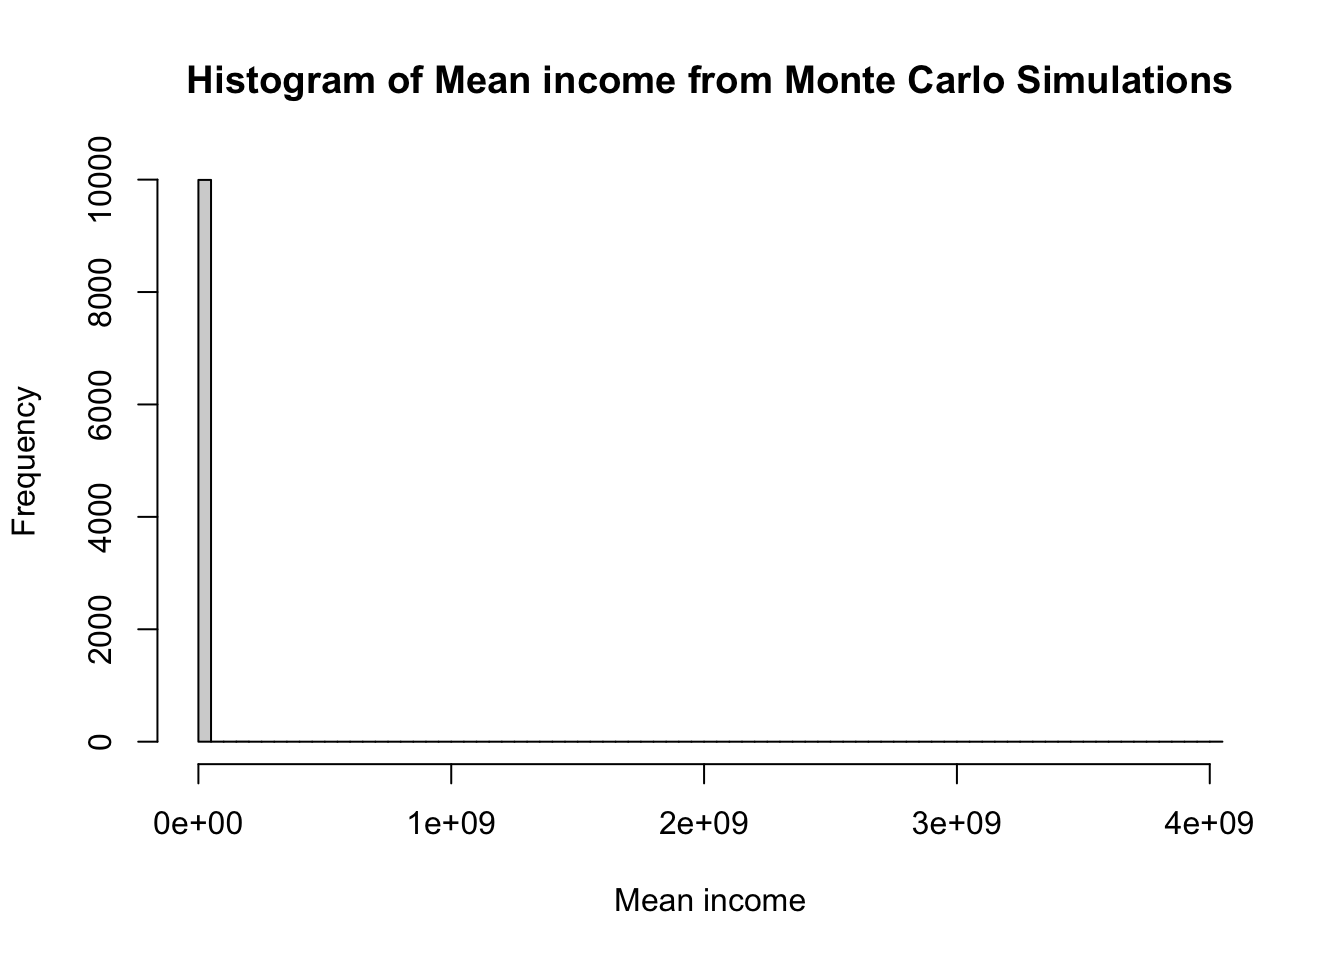
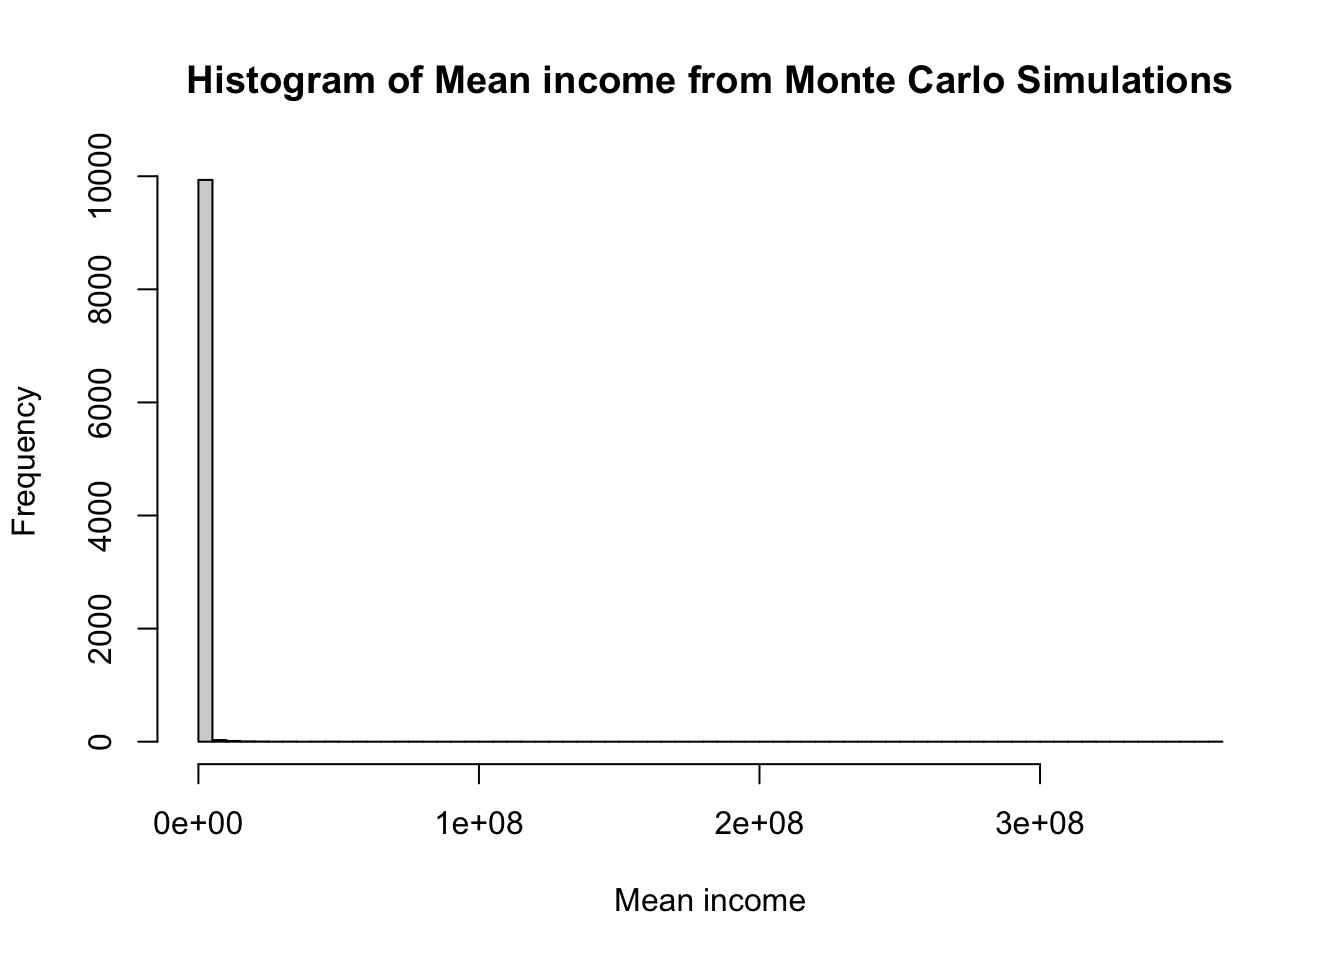
corrected drawdown

diff --git a/docs/Catallactics/Personal/levi.html b/docs/Catallactics/Personal/levi.html
@@ -1095,7 +1095,7 @@ cookieconsent.run({
 <li><p><strong>Median</strong>: 50% of the returns fall below this value, indicating the central tendency of the distribution.</p></li>
 <li><p><strong>Mean</strong>: The average return is approximately 11.146, representing the central tendency of the distribution.</p></li>
 <li><p><strong>3rd Quartile</strong>: 75% of the returns fall below this value.</p></li>
-<li><p><strong>Maximum</strong>: The highest return observed after truncation is 252.402, indicating that no return exceeds this threshold due to truncation.</p></li>
+<li><p><strong>Maximum</strong>: The highest return observed is 252.402, indicating that no return exceeds this threshold.</p></li>
 </ul>
 <p>The probability calculations reveal the likelihood of observing returns within specific ranges:</p>
 <ul>
@@ -1135,14 +1135,16 @@ cookieconsent.run({
 <span id="cb25-6"><a href="#cb25-6" aria-hidden="true" tabindex="-1"></a></span>
 <span id="cb25-7"><a href="#cb25-7" aria-hidden="true" tabindex="-1"></a><span class="co"># Calculate CVaR (Expected Shortfall)</span></span>
 <span id="cb25-8"><a href="#cb25-8" aria-hidden="true" tabindex="-1"></a>CVaR_95 <span class="ot">&lt;-</span> <span class="fu">mean</span>(future_returns[future_returns <span class="sc">&lt;=</span> VaR_95])</span>
-<span id="cb25-9"><a href="#cb25-9" aria-hidden="true" tabindex="-1"></a></span>
-<span id="cb25-10"><a href="#cb25-10" aria-hidden="true" tabindex="-1"></a><span class="co"># Adjust for the investment amount</span></span>
-<span id="cb25-11"><a href="#cb25-11" aria-hidden="true" tabindex="-1"></a>investment <span class="ot">&lt;-</span> <span class="dv">100</span></span>
-<span id="cb25-12"><a href="#cb25-12" aria-hidden="true" tabindex="-1"></a>VaR_95_rupees <span class="ot">&lt;-</span> investment <span class="sc">*</span> (VaR_95 <span class="sc">/</span> <span class="dv">100</span>)</span>
-<span id="cb25-13"><a href="#cb25-13" aria-hidden="true" tabindex="-1"></a>CVaR_95_rupees <span class="ot">&lt;-</span> investment <span class="sc">*</span> (CVaR_95 <span class="sc">/</span> <span class="dv">100</span>)</span>
-<span id="cb25-14"><a href="#cb25-14" aria-hidden="true" tabindex="-1"></a></span>
-<span id="cb25-15"><a href="#cb25-15" aria-hidden="true" tabindex="-1"></a><span class="co"># Print results rounded to 2 decimal places</span></span>
-<span id="cb25-16"><a href="#cb25-16" aria-hidden="true" tabindex="-1"></a><span class="fu">cat</span>(<span class="st">"VaR (95% confidence level) ="</span>, <span class="fu">round</span>(VaR_95_rupees, <span class="dv">2</span>), <span class="st">"rupees</span><span class="sc">\n</span><span class="st">"</span>)</span></code><button title="Copy to Clipboard" class="code-copy-button"><i class="bi"></i></button></pre></div>
+<span id="cb25-9"><a href="#cb25-9" aria-hidden="true" tabindex="-1"></a>CVaR_95 <span class="ot">&lt;-</span> <span class="fu">max</span>(CVaR_95, <span class="dv">0</span>)</span>
+<span id="cb25-10"><a href="#cb25-10" aria-hidden="true" tabindex="-1"></a></span>
+<span id="cb25-11"><a href="#cb25-11" aria-hidden="true" tabindex="-1"></a></span>
+<span id="cb25-12"><a href="#cb25-12" aria-hidden="true" tabindex="-1"></a><span class="co"># Adjust for the investment amount</span></span>
+<span id="cb25-13"><a href="#cb25-13" aria-hidden="true" tabindex="-1"></a>investment <span class="ot">&lt;-</span> <span class="dv">100</span></span>
+<span id="cb25-14"><a href="#cb25-14" aria-hidden="true" tabindex="-1"></a>VaR_95_rupees <span class="ot">&lt;-</span> investment <span class="sc">*</span> (VaR_95 <span class="sc">/</span> <span class="dv">100</span>)</span>
+<span id="cb25-15"><a href="#cb25-15" aria-hidden="true" tabindex="-1"></a>CVaR_95_rupees <span class="ot">&lt;-</span> investment <span class="sc">*</span> (CVaR_95 <span class="sc">/</span> <span class="dv">100</span>)</span>
+<span id="cb25-16"><a href="#cb25-16" aria-hidden="true" tabindex="-1"></a></span>
+<span id="cb25-17"><a href="#cb25-17" aria-hidden="true" tabindex="-1"></a><span class="co"># Print results rounded to 2 decimal places</span></span>
+<span id="cb25-18"><a href="#cb25-18" aria-hidden="true" tabindex="-1"></a><span class="fu">cat</span>(<span class="st">"VaR (95% confidence level) ="</span>, <span class="fu">round</span>(VaR_95_rupees, <span class="dv">2</span>), <span class="st">"rupees</span><span class="sc">\n</span><span class="st">"</span>)</span></code><button title="Copy to Clipboard" class="code-copy-button"><i class="bi"></i></button></pre></div>
 </details>
 <div class="cell-output cell-output-stdout">
 <pre><code>VaR (95% confidence level) = 1.5 rupees</code></pre>
@@ -1152,7 +1154,7 @@ cookieconsent.run({
 <div class="sourceCode cell-code" id="cb27"><pre class="sourceCode r code-with-copy"><code class="sourceCode r"><span id="cb27-1"><a href="#cb27-1" aria-hidden="true" tabindex="-1"></a><span class="fu">cat</span>(<span class="st">"CVaR (95% confidence level) ="</span>, <span class="fu">round</span>(CVaR_95_rupees, <span class="dv">2</span>), <span class="st">"rupees</span><span class="sc">\n</span><span class="st">"</span>)</span></code><button title="Copy to Clipboard" class="code-copy-button"><i class="bi"></i></button></pre></div>
 </details>
 <div class="cell-output cell-output-stdout">
-<pre><code>CVaR (95% confidence level) = -11.61 rupees</code></pre>
+<pre><code>CVaR (95% confidence level) = 0 rupees</code></pre>
 </div>
 </div>
 <p>In this scenario, we can see that CVaR can be huge and can potentially wipe out the entire capital.</p>

diff --git a/docs/posts/montecarlo.html b/docs/posts/montecarlo.html
@@ -993,7 +993,7 @@ Income distribution is not normal
 </details>
 <div class="cell-output cell-output-stdout">
 <pre><code>     Min.   1st Qu.    Median      Mean   3rd Qu.      Max. 
-2.091e+05 2.972e+05 3.454e+05 9.714e+05 4.403e+05 4.032e+09 </code></pre>
+   204556    295603    342559    649331    436963 361790549 </code></pre>
 </div>
 <details open="" class="code-fold">
 <summary>Code</summary>
@@ -1001,7 +1001,7 @@ Income distribution is not normal
 </details>
 <div class="cell-output cell-output-stdout">
 <pre><code>   Min. 1st Qu.  Median    Mean 3rd Qu.    Max. 
-  62203   64059   64492   64495   64919   67056 </code></pre>
+  61895   64078   64501   64509   64930   67099 </code></pre>
 </div>
 <details open="" class="code-fold">
 <summary>Code</summary>
@@ -1009,7 +1009,7 @@ Income distribution is not normal
 </details>
 <div class="cell-output cell-output-stdout">
 <pre><code>     Min.   1st Qu.    Median      Mean   3rd Qu.      Max. 
-8.950e+05 3.384e+06 5.705e+06 6.759e+07 1.204e+07 4.031e+11 </code></pre>
+9.326e+05 3.279e+06 5.563e+06 3.545e+07 1.194e+07 3.615e+10 </code></pre>
 </div>
 </div>
 </section>

diff --git a/docs/Revision notes/Diagrams/diagrams.html b/docs/Revision notes/Diagrams/diagrams.html
@@ -1273,7 +1273,7 @@ window.document.addEventListener("DOMContentLoaded", function (event) {
 </div>
   </div>
 </footer>
-<script>var lightboxQuarto = GLightbox({"openEffect":"zoom","closeEffect":"zoom","descPosition":"bottom","loop":false,"selector":".lightbox"});
+<script>var lightboxQuarto = GLightbox({"openEffect":"zoom","loop":false,"closeEffect":"zoom","descPosition":"bottom","selector":".lightbox"});
 window.onload = () => {
   lightboxQuarto.on('slide_before_load', (data) => {
     const { slideIndex, slideNode, slideConfig, player, trigger } = data;
